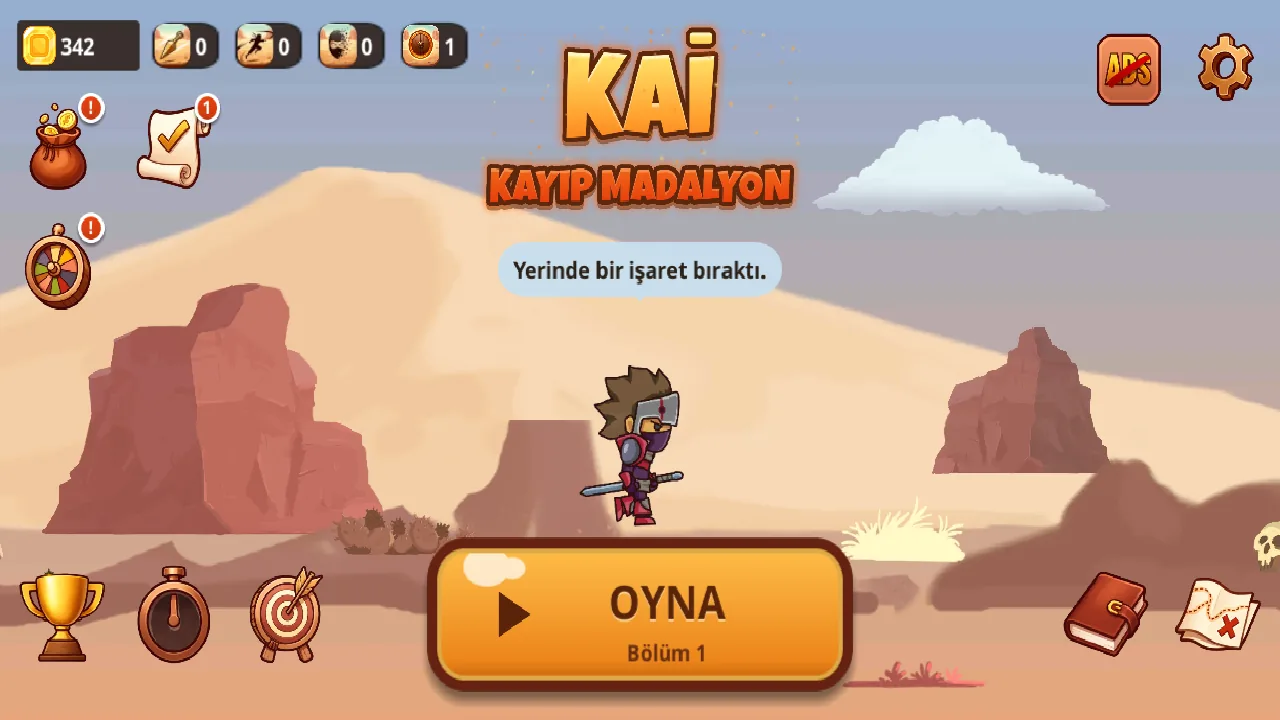
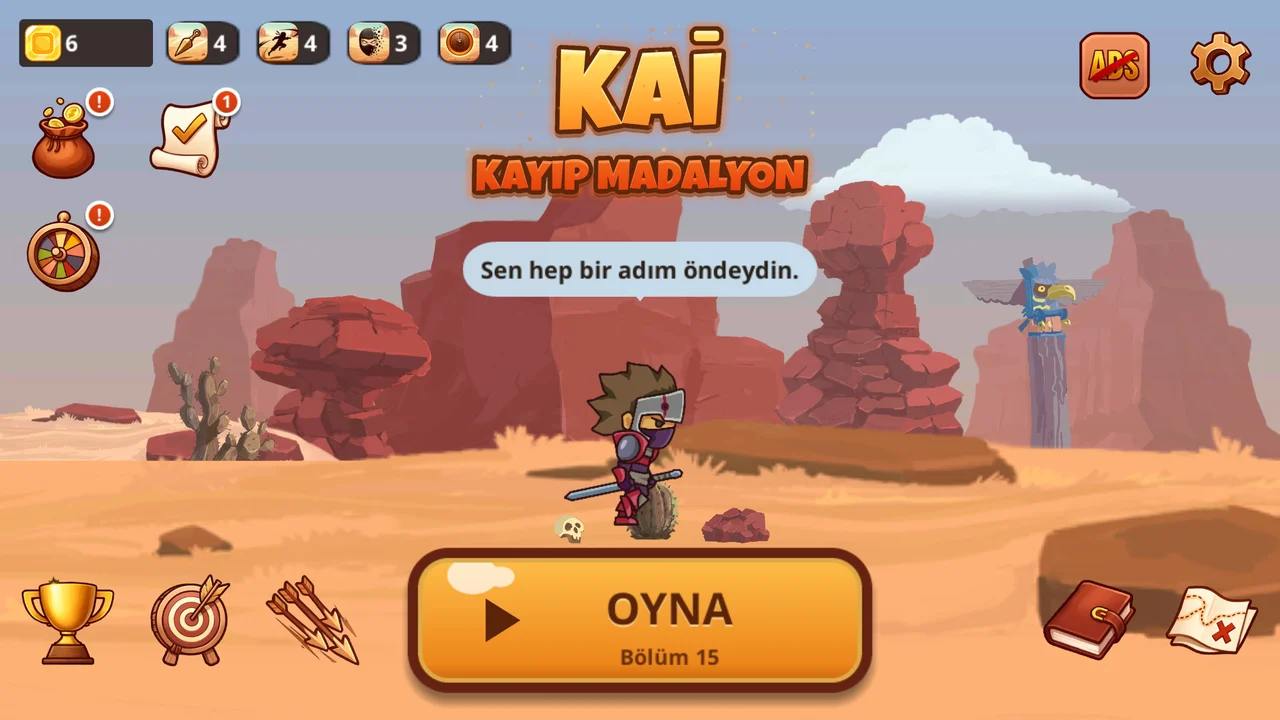
Ekran goruntuleri ve ozellik listesi guncellendi (katana, ates topu, Ok Firtinasi)

diff --git a/index.html b/index.html
@@ -48,13 +48,17 @@ body_class: home
   <ul class="feats" lang="tr">
     <li>Salise hassasiyetinde süre ve her bölüm için dünya rekor tablosu</li>
     <li>Hassas dokunmatik kontrol: istediğin yerde dur, tam zamanında zıpla</li>
-    <li>Kunai, uzun zıplama ve görünmezlik — altınla aç, yolunu kendin çiz</li>
+    <li>Katana dövüşü: kombo yap, düşmanı geri it, okları kılıcınla sektir</li>
+    <li>Kunai, uzun zıplama, görünmezlik ve ateş topu — altınla aç, yolunu kendin çiz</li>
+    <li>Yeni mod Ok Fırtınası: gökten yağan oklardan kaç, ne kadar dayanabildiğini göster</li>
     <li>Gizli odalar ve saklı altınlar — dikkatli bakan kazanır</li>
   </ul>
   <ul class="feats" lang="en">
     <li>Times to the hundredth of a second and a world record table for every level</li>
     <li>Precise touch controls: stop exactly where you want, jump exactly when you mean to</li>
-    <li>Kunai, long jump and invisibility — unlock them with gold and play your way</li>
+    <li>Katana combat: chain combos, knock enemies back, deflect arrows with your blade</li>
+    <li>Kunai, long jump, invisibility and fireball — unlock them with gold and play your way</li>
+    <li>New mode Arrow Storm: dodge arrows raining from the sky and see how long you last</li>
     <li>Hidden rooms and secret gold for those who look closely</li>
   </ul>
 </section>
@@ -64,10 +68,10 @@ body_class: home
   <div class="shot-grid">
     <img class="shot-main" lang="tr" src="{{ '/assets/img/menu-tr.webp' | relative_url }}" width="1280" height="720" loading="lazy" alt="Kai: Kayıp Madalyon ana menüsü">
     <img class="shot-main" lang="en" src="{{ '/assets/img/menu-en.webp' | relative_url }}" width="1280" height="720" loading="lazy" alt="Kai: Medallion Chase main menu">
-    <img src="{{ '/assets/img/ekran-1.webp' | relative_url }}" width="1280" height="592" loading="lazy" alt="Kai kanyonda kayalar arasında zıplıyor / Kai jumping between canyon rocks">
-    <img src="{{ '/assets/img/ekran-2.webp' | relative_url }}" width="1280" height="592" loading="lazy" alt="Köprüde bekleyen askerler / Soldiers waiting on a bridge">
+    <img src="{{ '/assets/img/ekran-1.webp' | relative_url }}" width="1280" height="592" loading="lazy" alt="Kai testerelerin üstünden zıplıyor / Kai jumping over spinning saws">
+    <img src="{{ '/assets/img/ekran-2.webp' | relative_url }}" width="1280" height="592" loading="lazy" alt="Ok Fırtınası modu: gökten yağan oklar / Arrow Storm mode: arrows raining from the sky">
     <img src="{{ '/assets/img/ekran-3.webp' | relative_url }}" width="1280" height="592" loading="lazy" alt="Kaya içinde gizli oda ve altınlar / A hidden room with gold inside the rock">
-    <img src="{{ '/assets/img/ekran-4.webp' | relative_url }}" width="1280" height="592" loading="lazy" alt="Ahşap iskelede okçular / Archers on a wooden scaffold">
+    <img src="{{ '/assets/img/ekran-4.webp' | relative_url }}" width="1280" height="592" loading="lazy" alt="Katanayla askere saldırı / Striking a soldier with the katana">
   </div>
 </section>
 
